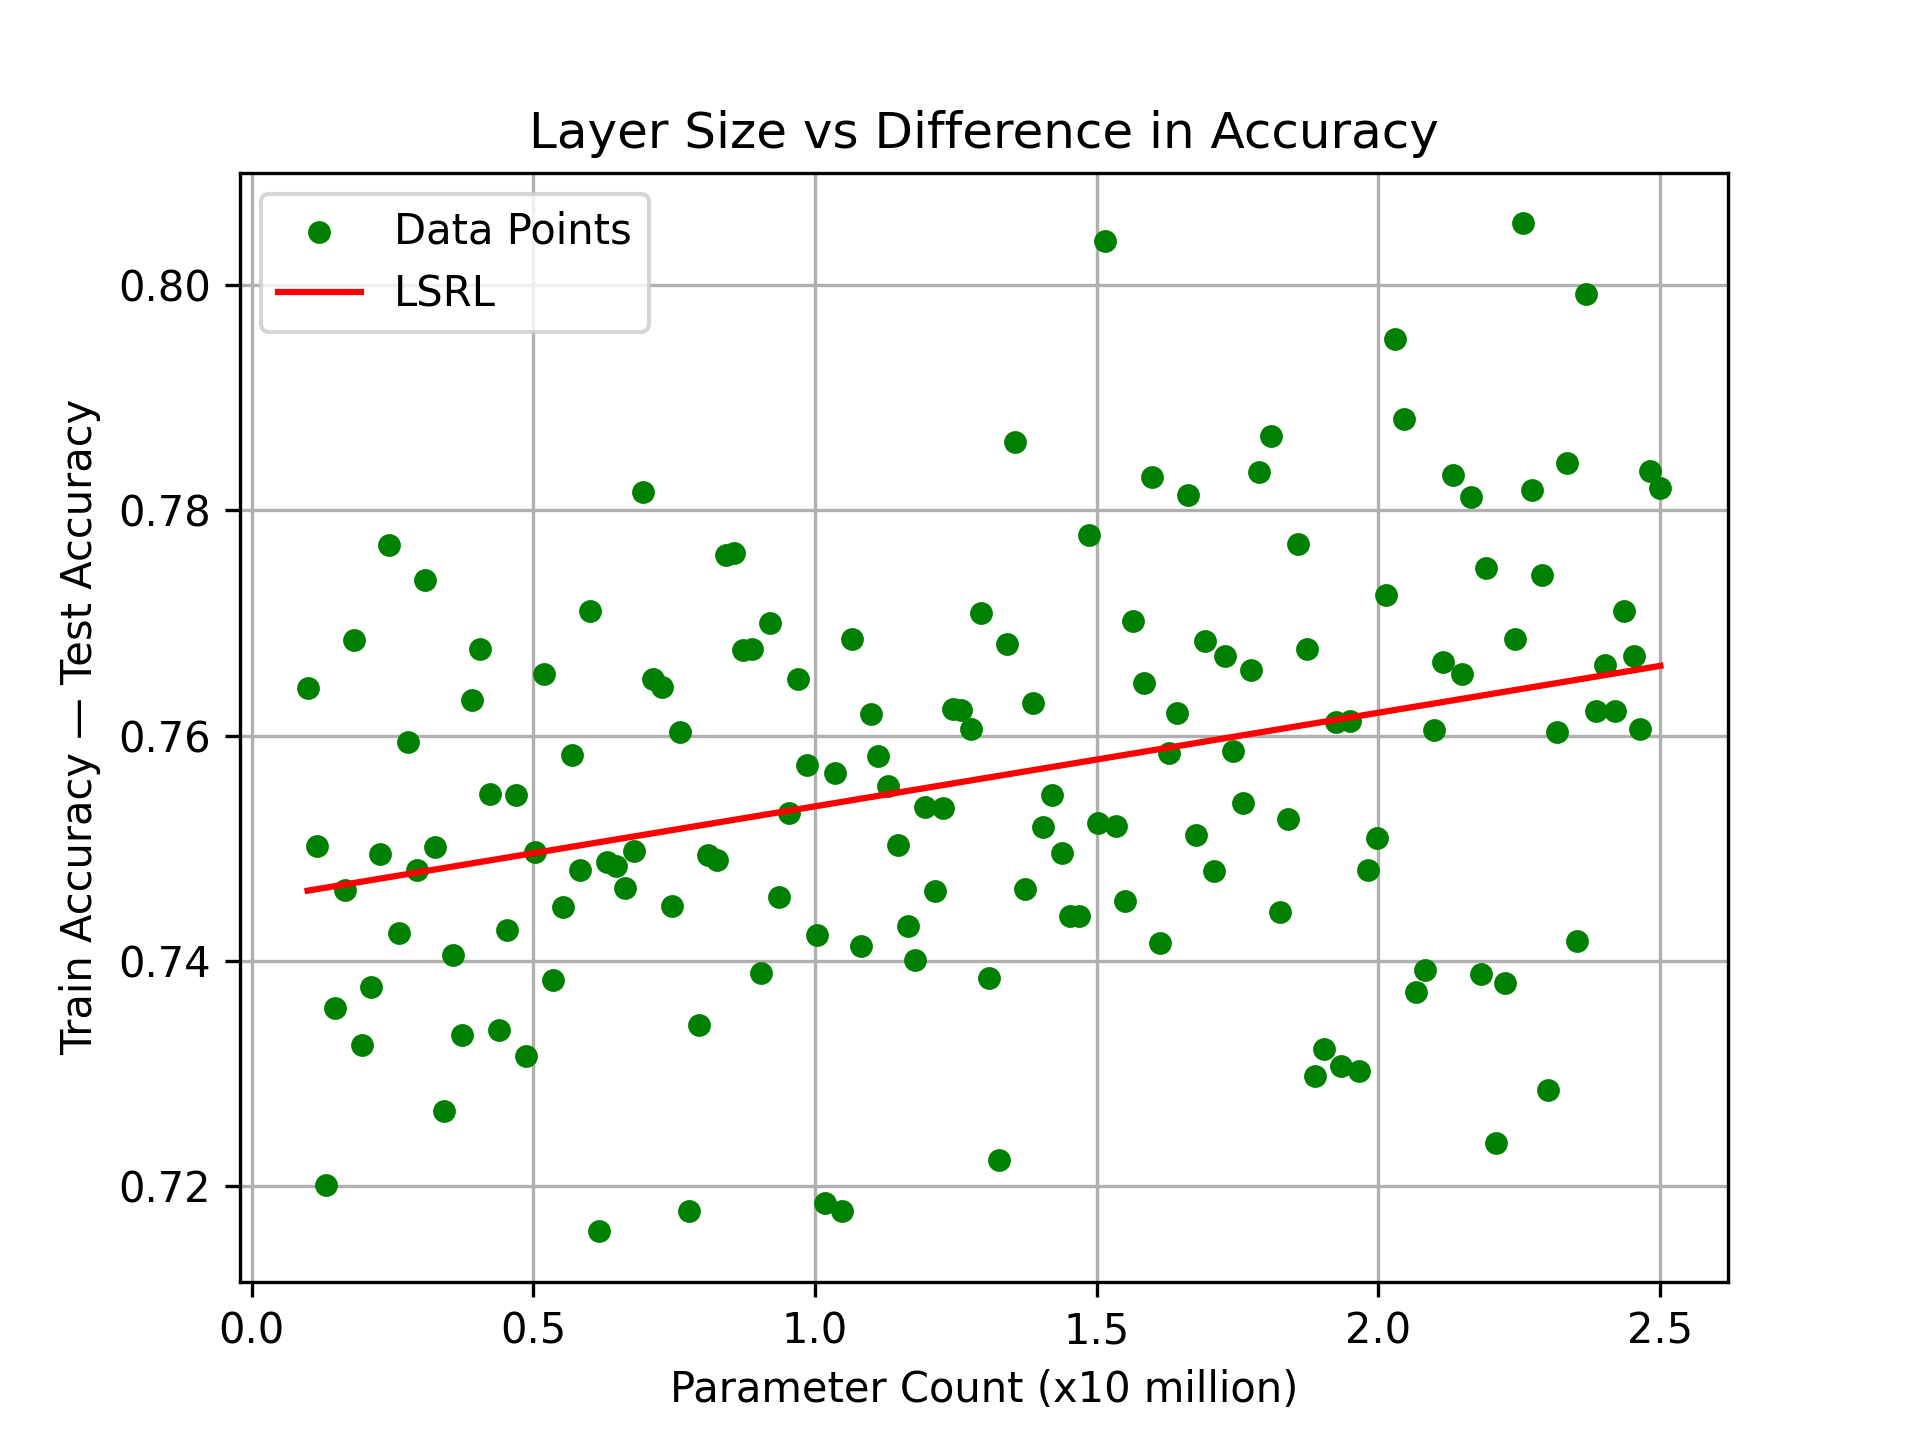
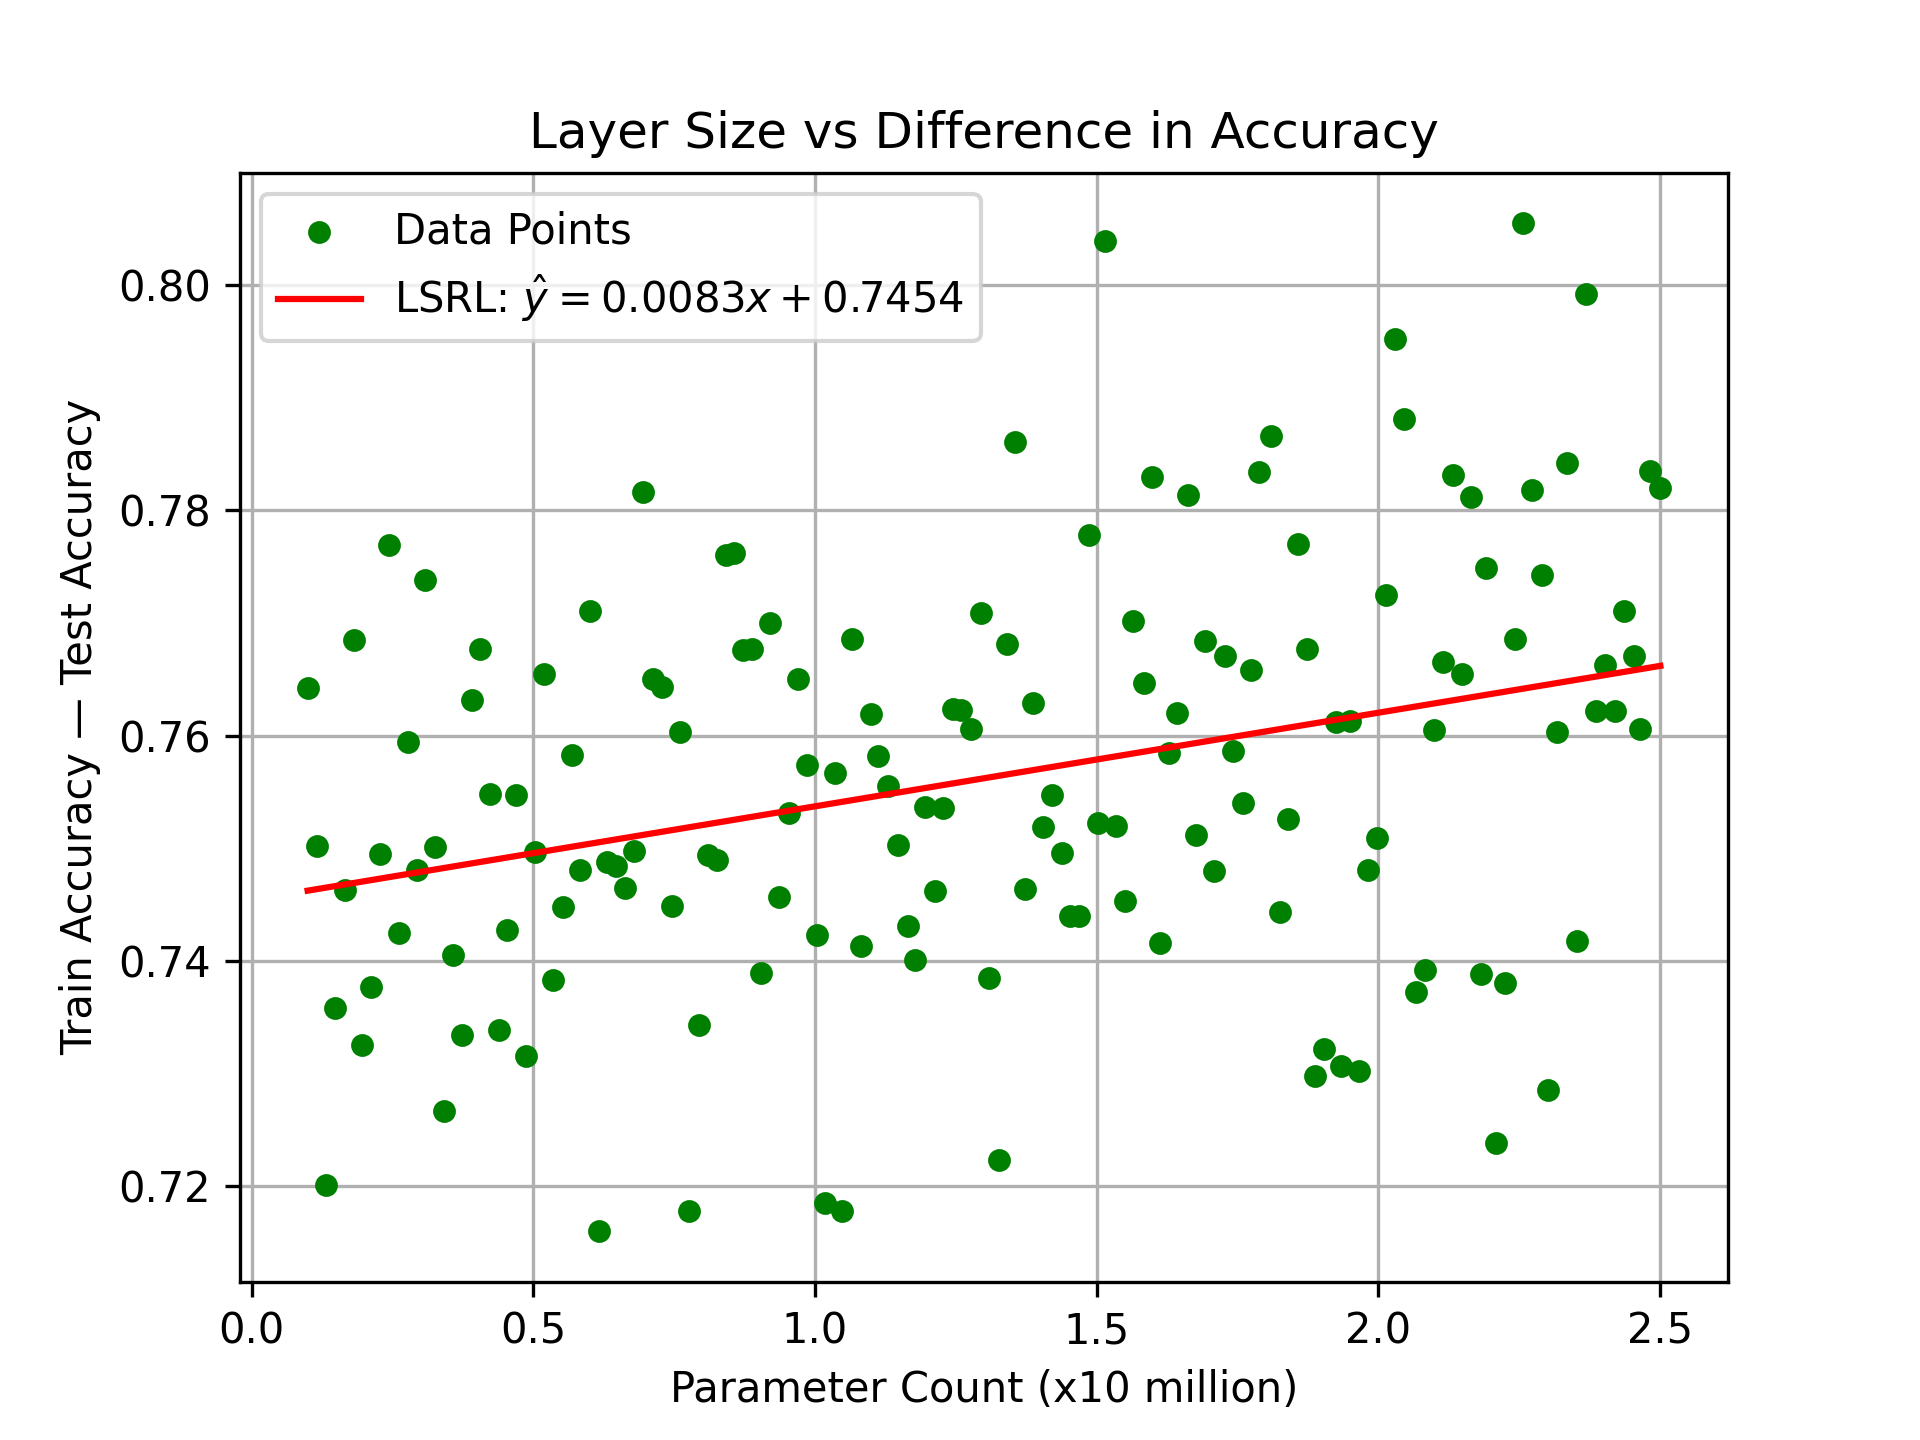
first draft for final paper; wrote reflection and changed formatting; fixed explanations and added on to some other sections.

Changed region(s): [[0.125, 0.1875, 0.5, 0.25], [0.4062, 0.125, 0.4375, 0.1562]]

diff --git a/paper_formatted.tex b/paper_formatted.tex
@@ -12,7 +12,9 @@
 \usepackage{tikz}
 \usepackage{setspace}
 \usepackage{times}
-\usepackage[left=1in, right=1in, top=1in, bottom=1in]{geometry}
+\usepackage{longtable}
+\usepackage{siunitx}
+\usepackage[margin=1in]{geometry}
 \usepackage[colorlinks=true, linkcolor=blue, citecolor=blue, urlcolor=blue]{hyperref}
 
 \doublespacing
@@ -84,6 +86,7 @@
     The architecture and the ratio of layer sizes were kept consistent between each model, ensuring that the only difference between them was the number of parameters (\textit{see Figure 1 below}).
     On the initialization of each model, the values of the parameters for that model were randomly set, so each model can be seen as randomly
     selected from all possible models of their respective size and architecture before training, ensuring the experiment is statistically valid.
+    All of the above precautions aimed to eliminate confounding with other variables, ensuring that any change in the accuracy of the models was actually caused by the change in parameter count.
     We controlled the parameter count by multiplying the amount of filters for the Conv2D layers and the amount of neurons
     for the hidden Dense layers by a scalar factor, $n$.
 
@@ -122,12 +125,31 @@
     \section*{4. Data Display}
     \begin{figure}[H]
         \centering
-        \includegraphics[width=0.7\textwidth]{Images/Scatter}
+        \includegraphics[width=1\textwidth]{Images/Scatter}
         \caption{Scatterplot of Parameter Count vs. Difference in Train and Test Accuracy (Train - Test)}
         \label{fig:scatterplot}
     \end{figure}
-    There appears to be a moderate, positive, linear relationship between parameter count and difference between
-    train and test accuracy (train - test). There appear to be a few possible high outliers above $x =$ 1.5 million parameters
+
+    \begin{table}[ht]
+        \centering
+        \begin{tabular}{|l|r|r|}
+            \hline
+            Predictor & Coef & SE Coef \\
+            \hline
+            Constant & 0.7454 &  \\
+            Param Count (x10 mil)   & 0.0083 & 0.0020 \\
+            \hline
+            \multicolumn{2}{|l|}{$S = 0.01703$} & R-Sq = 10.37\% \\
+            \hline
+        \end{tabular}
+        \caption{Regression Summary}
+        \label{tab:minitab}
+    \end{table}
+
+    \noindent
+    Based on the scatter plot (\textit{\autoref{fig:scatterplot}}) and the correlation coefficient of $r=\sqrt{0.1037}=0.3220$ (\textit{from \autoref{tab:minitab}}), there appears to be a weak,
+    positive, linear relationship between parameter count and difference between train and test accuracy (train - test).
+    There appear to be a few possible high outliers above $x =$ 1.5 million parameters
     and a few possible low outliers above $x = 0.5$ million parameters.
     \begin{figure}[H]
         \centering
@@ -142,7 +164,7 @@
         \label{fig:residual_hist}
     \end{figure}
     \noindent The histogram of the residuals appears to be approximately symmetric, with a median around 0 and a range of
-    $0.05-(-0.04)=0.09$. There do not appear to be any obvious outliers.
+    $0.05-(-0.04)=0.09$. There does not appear to be any strong skew or outliers.
 
     \section*{5. Data Analysis}
 
@@ -225,7 +247,7 @@
     \]
 
     \subsubsection*{5.2.2 $t$-statistic}
-    \noindent And now we can find the t-statistic, which represents how many standard deviations away our sample slope $b$ is from the population slope $\beta$, assuming that $\beta=0$:
+    \noindent And now we can find the t-statistic, which represents how many standard deviations away our sample slope $b$ is from the population slope $\beta$ on the sampling distribution, assuming that $\beta=0$:
     \begin{gather*}
         \mathrm{t} = \frac{b}{SE_\beta} \\[1em]
         \mathrm{t} = \frac{0.008312}{0.002008} = 4.139
@@ -243,7 +265,7 @@
         \label{fig:t_dist}
     \end{figure}
 
-    \noindent Based on the area under the curve in \textit{\autoref{fig:t_dist}} above $t=4.139$, our $p$-value is $2.916\cdot10^{-5}$.
+    \noindent Based on the area under the curve in \textit{\autoref{fig:t_dist}} above, $t=4.139$, our $p$-value is $2.916\cdot10^{-5}$.
 
     \section*{6. Conclusion}
 
@@ -255,9 +277,123 @@
     of the least-squares regression line that relates parameter count to difference in train and test accuracy (train - test) is $0$,
     in the population defined above.
     The data do provide convincing evidence that the population slope $\beta$ is greater than $0$, and that there is a positive correlation between
-    parameter count and difference between train and test accuracy (train - test) in the population defined above.
+    parameter count and difference between train and test accuracy (train - test) in the population defined above. Thus, we can conclude that
+    increasing the number of parameters in the model does indeed cause overfitting.
 
 
     \section*{7. Reflection}
 
+    In our project, we aimed to determine whether increasing the parameter count of convolutional models of a specific structure caused the model to overfit,
+    or essentially memorize the train dataset and perform well on images from that set but poorly on newly introduced images. We ensured equal representation
+    of images of different classifications by randomly sampling by strata, with each strata being a group of images with the same classification.
+    By keeping the structure of the models and the dataset on which they were trained on constant, as well as randomizing the parameters of the models
+    on initialization, we prevented confounding with other variables, allowing us to establish a cause-and-effect relationship between parameter count
+    and difference between train and test accuracy (train - test). Through a $t$-test for the population slope, we found that there is a positive relationship
+    between parameter count and difference between train and test accuracy (train - test), and thus that increasing parameter count increases the difference and causes overfitting.
+
+    We could have potentially made a Type I error, because we rejected the null hypothesis. If we had made a Type I error,
+    that would mean that we found convincing evidence that increasing the parameter count of the model between 1m and 25m parameters
+    caused overfitting, when in reality it didn't. A potential consequence of this would be that we would only use models with less than 1 million parameters,
+    believing that models larger than 1 million parameters would perform worse on the test dataset, losing the potential
+    of getting better accuracy by using larger models.
+
+    However, our design included many limitations that could be addressed in future experiments.
+    We only trained models with 1m to 25m parameters, which means we can only generalize to models of these sizes.
+    In the future, we could conduct tests with a wider range of parameter sizes, which would allow us to generalize our results to a wider range of model sizes or potentially reveal a new trend with larger parameter sizes.
+
+    Another major limitation was the compute time required. Despite training relatively simple models on a small dataset, it took over two hours to train all 150 models.
+    If we wanted to scale the experiment up with more complex models or larger datasets, the compute time required could make the experiment impractical.
+    In the future, we could optimize the experiment by training the models for less epochs or using less models, although this would decrease the power of the test.
+
+    Finally, our results are only applicable to models of the specific architecture we used on a 100 image subset of the CIFAR-10 dataset, which is not useful to many people training neural networks.
+    If we wanted the test to be more useful in helping people decide the size of their models, we could perform an experiment on different model architectures and datasets, allowing a broader generalization.
+
+
+
+%    In the future, we could conduct tests beyond our current models architecture and our current parameter range,
+%    to generalize to a larger population or find different trends. It is possible that as model size increases past
+%    25 million parameters, that the difference in test and train accuracy could stop increasing and instead start decreasing.
+%    We could also conduct tests with larger training datasets and see if the slope lowers as the training dataset size increases (because overfitting generally happens on small training datasets).
+%    In the future we could also generalize our test to
+    \clearpage
+
+
+    \appendix
+    \section*{Appendix: Raw Data}
+    \addcontentsline{toc}{section}{Appendix: Raw Data}
+
+    \begin{longtable}{@{}
+        S[table-format=8.0]  c
+        S[table-format=8.0]  c
+        S[table-format=8.0]  c
+        @{}}
+        \caption{Raw Data: Parameter Count vs.\ Train–Test Accuracy Difference}\\
+        \toprule
+        \textbf{Param. Count} & \textbf{Accuracy}
+        & \textbf{Param. Count} & \textbf{Accuracy}
+        & \textbf{Param. Count} & \textbf{Accuracy} \\
+        \midrule
+        \endfirsthead
+
+        \toprule
+        \textbf{Param. Count} & \textbf{Accuracy}
+        & \textbf{Param. Count} & \textbf{Accuracy}
+        & \textbf{Param. Count} & \textbf{Accuracy} \\
+        \midrule
+        \endhead
+
+        \bottomrule
+        \endfoot
+
+        \num{991995}   & 0.7642 & \num{1156636} & 0.7502 & \num{1314120} & 0.7201 \\
+        \num{1481652}  & 0.7358 & \num{1653866} & 0.7463 & \num{1817930} & 0.7685 \\
+        \num{1964108}  & 0.7325 & \num{2122007} & 0.7377 & \num{2279711} & 0.7495 \\
+        \num{2443067}  & 0.7769 & \num{2612075} & 0.7425 & \num{2779778} & 0.7594 \\
+        \num{2928578}  & 0.7481 & \num{3083068} & 0.7738 & \num{3247185} & 0.7501 \\
+        \num{3409755}  & 0.7267 & \num{3574350} & 0.7405 & \num{3736748} & 0.7334 \\
+        \num{3908963}  & 0.7632 & \num{4058757} & 0.7677 & \num{4231690} & 0.7548 \\
+        \num{4387487}  & 0.7339 & \num{4537211} & 0.7427 & \num{4689447} & 0.7547 \\
+        \num{4872926}  & 0.7316 & \num{5030648} & 0.7497 & \num{5190882} & 0.7655 \\
+        \num{5353628}  & 0.7383 & \num{5518886} & 0.7448 & \num{5686656} & 0.7583 \\
+        \num{5825435}  & 0.7481 & \num{5997767} & 0.7711 & \num{6162250} & 0.7160 \\
+        \num{6304105}  & 0.7488 & \num{6472707} & 0.7484 & \num{6620711} & 0.7465 \\
+        \num{6793468}  & 0.7498 & \num{6942372} & 0.7816 & \num{7119248} & 0.7650 \\
+        \num{7274427}  & 0.7643 & \num{7455458} & 0.7449 & \num{7611411} & 0.7603 \\
+        \num{7760207}  & 0.7178 & \num{7947148} & 0.7343 & \num{8108136} & 0.7494 \\
+        \num{8261687}  & 0.7490 & \num{8413707} & 0.7760 & \num{8570111} & 0.7762 \\
+        \num{8724930}  & 0.7676 & \num{8884187} & 0.7677 & \num{9041805} & 0.7389 \\
+        \num{9203915}  & 0.7700 & \num{9364332} & 0.7457 & \num{9529295} & 0.7531 \\
+        \num{9692511}  & 0.7650 & \num{9860327} & 0.7574 & \num{10026342} & 0.7423 \\
+        \num{10183690} & 0.7185 & \num{10352393} & 0.7567 & \num{10480242} & 0.7178 \\
+        \num{10654715} & 0.7686 & \num{10813533} & 0.7413 & \num{10990748} & 0.7619 \\
+        \num{11122467} & 0.7582 & \num{11298745} & 0.7555 & \num{11465740} & 0.7503 \\
+        \num{11644706} & 0.7431 & \num{11780277} & 0.7401 & \num{11950780} & 0.7537 \\
+        \num{12133478} & 0.7462 & \num{12271857} & 0.7536 & \num{12445868} & 0.7624 \\
+        \num{12586011} & 0.7623 & \num{12773485} & 0.7606 & \num{12951004} & 0.7709 \\
+        \num{13093955} & 0.7385 & \num{13269953} & 0.7223 & \num{13399368} & 0.7681 \\
+        \num{13544767} & 0.7861 & \num{13727548} & 0.7464 & \num{13874711} & 0.7629 \\
+        \num{14055863} & 0.7519 & \num{14204772} & 0.7547 & \num{14391938} & 0.7496 \\
+        \num{14526700} & 0.7440 & \num{14678075} & 0.7440 & \num{14864381} & 0.7778 \\
+        \num{15017502} & 0.7522 & \num{15155155} & 0.8039 & \num{15348460} & 0.7520 \\
+        \num{15504047} & 0.7453 & \num{15643907} & 0.7702 & \num{15836226} & 0.7647 \\
+        \num{15977573} & 0.7830 & \num{16119548} & 0.7416 & \num{16278987} & 0.7585 \\
+        \num{16422292} & 0.7620 & \num{16623490} & 0.7814 & \num{16768300} & 0.7512 \\
+        \num{16930907} & 0.7684 & \num{17077047} & 0.7480 & \num{17277956} & 0.7671 \\
+        \num{17425583} & 0.7586 & \num{17591340} & 0.7540 & \num{17740297} & 0.7658 \\
+        \num{17889882} & 0.7834 & \num{18099850} & 0.7866 & \num{18250940} & 0.7443 \\
+        \num{18402658} & 0.7526 & \num{18572987} & 0.7770 & \num{18726035} & 0.7677 \\
+        \num{18879711} & 0.7298 & \num{19034015} & 0.7322 & \num{19246091} & 0.7612 \\
+        \num{19344507} & 0.7307 & \num{19500695} & 0.7613 & \num{19657511} & 0.7302 \\
+        \num{19814955} & 0.7481 & \num{19973027} & 0.7509 & \num{20131727} & 0.7725 \\
+        \num{20291055} & 0.7952 & \num{20451011} & 0.7881 & \num{20670818} & 0.7372 \\
+        \num{20832261} & 0.7392 & \num{20994332} & 0.7605 & \num{21157031} & 0.7665 \\
+        \num{21320358} & 0.7831 & \num{21484313} & 0.7655 & \num{21648896} & 0.7812 \\
+        \num{21814107} & 0.7388 & \num{21918875} & 0.7749 & \num{22085111} & 0.7238 \\
+        \num{22251975} & 0.7380 & \num{22419467} & 0.7686 & \num{22567754} & 0.8055 \\
+        \num{22736428} & 0.7818 & \num{22905730} & 0.7743 & \num{23008186} & 0.7285 \\
+        \num{23178495} & 0.7603 & \num{23349432} & 0.7842 & \num{23520997} & 0.7418 \\
+        \num{23693190} & 0.7992 & \num{23866011} & 0.7622 & \num{24018998} & 0.7663 \\
+        \num{24193001} & 0.7622 & \num{24367632} & 0.7711 & \num{24542891} & 0.7671 \\
+        \num{24654011} & 0.7606 & \num{24830295} & 0.7835 & \num{25007207} & 0.7820 \\
+    \end{longtable}
 \end{document}
